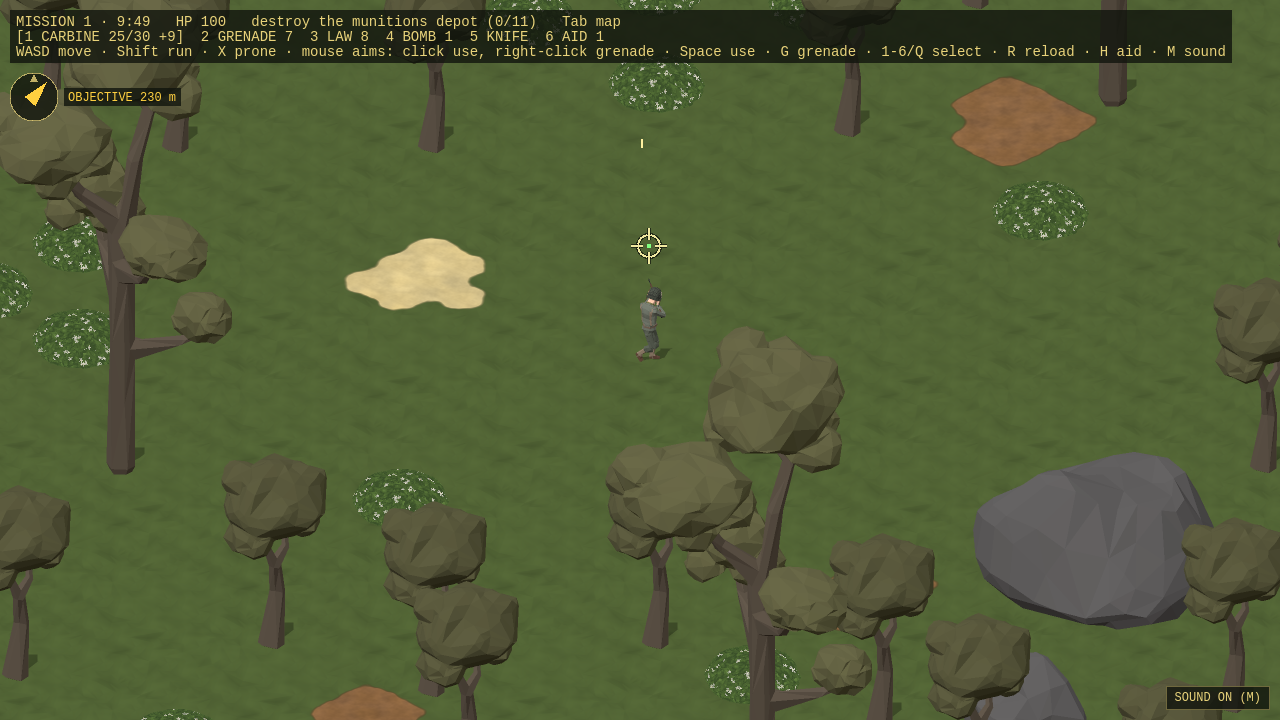
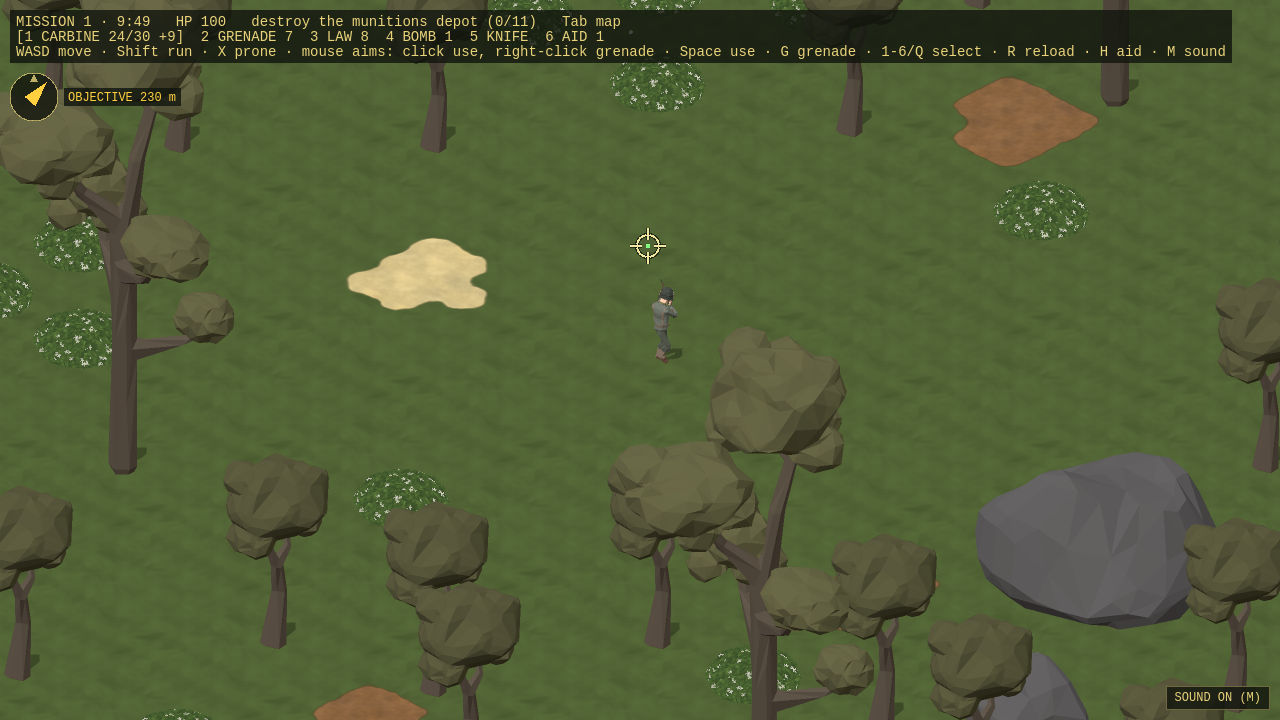
G16: route-check walks the generator's clearance route (FB-125 verified; own clearRoute only where none exists, FB-128); minefield guards keep 0.5 m clearance on missions 2/6/7/10/11 (three fields moved off the walked route) and route-check fails a walked route through mines; temperate tileset adds 

diff --git a/pages/gallery.html b/pages/gallery.html
@@ -118,6 +118,7 @@
       <tr><th>Run</th><td><kbd>Shift</kbd></td></tr>
       <tr><th>Prone / crawl</th><td><kbd>X</kbd></td></tr>
       <tr><th>Aim</th><td>The mouse: the commando faces the cursor and fires toward it (keyboard only: he fires the way he faces)</td></tr>
+      <tr><th>Strafe</th><td>With the mouse, walk or run any way while you aim: his legs face the way he walks, his upper body turns to the cursor and fires, throws and launches from there</td></tr>
       <tr><th>Shoot</th><td>Left click (hold to keep firing) or <kbd>Space</kbd>: uses the selected weapon</td></tr>
       <tr><th>Grenade</th><td>Right click (lands at the cursor, up to 8 m) or <kbd>G</kbd></td></tr>
       <tr><th>Crosshair</th><td>Red where the selected weapon doesn't reach; the centre dot is green while a grenade reaches. The grenade or LAW selected: a ring on the ground shows its range (LAW rockets fly toward the cursor, up to 30 m)</td></tr>
@@ -142,7 +143,10 @@
     <h2>Missions</h2>
     <p class="lead">A plane drops one commando and three supply pods behind enemy lines. Complete the objective and reach the
       extraction zone before the timer runs out. Merit earns promotions (PFC to COL) and medals for a roster of six commandos.
-      Each mission area is a long 128×256 m stretch: drop in the south, objective in the far north.</p>
+      Each mission area is a long 128×256 m stretch: drop in the south, objective in the far north.
+      The people you lead out (the officer, the prisoners, the hostages) draw enemy fire, but a round only wounds them:
+      5 hits on Easy, 4 on Normal, 3 on Hard, with 1.5 s after each hit in which more rounds do nothing, and pips over
+      them show the hits left. Your own fire still kills them outright.</p>
     <div class="grid">
       <figure><img src="shots/mission.png" alt=""><figcaption><b>1 · Destroy a Munitions Depot</b> · temperate</figcaption></figure>
       <figure><img src="shots/mission2.png" alt=""><figcaption><b>2 · Knock Out Enemy Radar Array</b> · desert</figcaption></figure>
@@ -183,6 +187,7 @@
     <h3>Mission 1 · temperate</h3>
     <div class="grid">
       <figure><img src="shots/mission-drop.png" alt=""><figcaption><b>The drop:</b> the commando and three supply pods land.</figcaption></figure>
+      <figure><img src="shots/g14-strafe.png" alt=""><figcaption><b>Strafing:</b> the legs walk east while the torso aims at the cursor to the north.</figcaption></figure>
       <figure><img src="shots/mission-end.png" alt=""><figcaption><b>Depot destroyed:</b> buildings collapse with scorch and debris.</figcaption></figure>
       <figure><img src="shots/mission-debrief.png" alt=""><figcaption><b>Debriefing:</b> merit, medals and promotion.</figcaption></figure>
     </div>

diff --git a/FEEDBACK.md b/FEEDBACK.md
@@ -1035,7 +1035,8 @@ Status: `open` → `triaged (TODO: …)` → `fixed (<commit>)` → `verified` (
 - Workaround: `scripts/route-check.mjs` still takes metres and hazards from `ssg map route`, but the in-game walk follows its own route between the same end cells with one cell of clearance round the collision layer and the object footprints (`clearRoute`, marked FB-125); it prints both lengths (`walk route (one cell of clearance, FB-125): 198 + 143 m` on mission 3 against the generator's 182 + 132 m). With it all twelve missions walk to the end (mission 3: 77 of 77 waypoints, no sidesteps; mission 4's sidesteps drop from 16 to 8). Mission 6 once stopped at 56 of 79: not the route but a guard's stray bullet killing the captured officer, which failed the mission; the walk now spares the escorted people too and reports a mission that ends early (`ended: "failed"`).
 - Suggested change: `clearance` on `map route` (CLI `--clearance <m>`, MCP `clearance`), counted from the collision layer and footprints (or the objects' collision polygons), and the same option on `avoidRoute`.
 - Update (G15, 2026-10-20): the walk no longer spares the escorted people: enemy rounds now only wound them (the game's own change, src/enemies/wounds.ts: 4 hits on Normal, 1.5 s grace after each). Mission 6 walked to the end four times with the officer captured at 1:24 and following (once he took a wound on the way, which used to end the walk).
-- Status: open
+- Re-test (G16, 2026-10-21): works where there's room. `ssg map route --clearance 0.5` (and `clearance` on `avoidRoute`) found a route for 15 of the 24 legs (missions 2, 6, 7, 10, 11 both legs; 1, 8, 9 objective→extraction; 5 drop→code book), and `scripts/route-check.mjs --walk` now runs those, not its own route: mission 2 76/76 waypoints with no sidesteps, 6 87/87 (officer captured at 1:27, one wound), 7 100/100, 10 88/88, 11 68/68, all with no sidesteps. With 0.5 m on the minefield guards of 2, 6, 7, 10 and 11 (next to the plain route, so both the scored and the walked route are guarded) the guard refused three minefields that the 0.5 m route ran through (mission 2's g9_mines2: "would be on the route Radar array→extraction (0.5 m clearance) at (56, 63)"; mission 10's g9_mines2; mission 11's g9_mines1), and they were moved off it; route-check now also fails a walked route that crosses a minefield (mission 3's own route used to, by 6 cells). The other 9 legs find no route at any clearance, because trees' and bushes' footprints count (FB-128); for those the walk keeps its own `clearRoute`, now marked FB-128. All twelve walk to the end (mission 1 once timed out at 70/76 in the full run and walked 76/76 alone).
+- Status: verified (the leftover gap is FB-128)
 
 ## FB-127 · `ssg map check-route` makes a new map revision
 - Severity: polish        Milestone: wave 15 (G15)
@@ -1054,3 +1055,12 @@ Status: `open` → `triaged (TODO: …)` → `fixed (<commit>)` → `verified` (
 - Workaround: `ranger_split` declared next to `ranger` (same asset, `with`, clips; the LAW as standing `shoulder_fire` on the split one); `scripts/build-assets.mjs` enters its halves as `ranger_split_legs` / `ranger_split_torso` in the manifest; `src/scenes/Field.ts` hides the whole-body sprite while the split pair is drawn.
 - Suggested change: `split.whole: true` (MCP and CLI `--split-whole`) to also write the whole-body sheet from the same job; or let one sprite name a split companion so `sprite apply` keeps their model, items and shared clips in step.
 - Status: triaged (TODO: Inbox FB-126)
+
+## FB-128 · `map route --clearance` counts from the footprints of trees and bushes, so any clearance shuts a thicket
+- Severity: workaround        Milestone: wave 16 (G16)
+- Tried: FB-125's `ssg map route <mission> --from … --to … --cells --clearance 0.5` for both legs of all twelve missions, so `scripts/route-check.mjs --walk` could follow the generator's route instead of its own `clearRoute`.
+- Wanted: a route that keeps 0.5 m from what the Ranger collides with: the collision layer, building and wire footprints, and for trees, palms, bushes and rocks their collision polygon (a tree's is its trunk, `collision.source: "base"`, FB-017), not their canopy-sized footprint.
+- Got: 9 of 24 legs find no route at any clearance (0.05, 0.2, 0.25, 0.3 or 0.5 m: `with 0.5 m clearance: no walkable route: Munitions depot is cut off from drop by blocked cells or object footprints (and the clearance round them); without the clearance there is a route (237.92 m), through gaps narrower than the clearance`): mission 1 drop→depot, mission 3 both legs, mission 4 both legs, mission 5 code book→extraction, mission 8 drop→camp exit, mission 9 drop→Hangar, mission 12 both legs. Bisecting the plain route shows where it closes: on mission 1 at (95, 222), 5 cells out of the drop, between `tree_small` and `bush` objects whose footprints are 3×3 (`tree` 6×6, `rock` 3×3) and stand one cell apart. The plain route (no clearance) already counts those footprints as solid, and the walk shows the Ranger only bumps into trunks there; "any clearance closes one-cell gaps", so a wood whose footprints stand a cell apart is a wall. `--ignore-objects --clearance 0.5` does find a route (222.75 m on mission 1) but walks through wire, sandbags and bunkers.
+- Workaround: `scripts/route-check.mjs` walks the generator's 0.5 m route for each leg that has one and falls back to its own `clearRoute` (trunk cells, one cell of band, minefields blocked) for the others, marked FB-128; it prints which (`walk route: 237 m (own clearRoute, FB-128) + 101 m (generator, clearance 0.5 m)`). The minefield guards carry `clearance: 0.5` (alongside the plain route) only on missions 2, 6, 7, 10 and 11, where both legs have a clearance route; on the others a clearance guard would be an error ("an error when there is no route").
+- Suggested change: count the clearance from an object's collision polygon where it has one (or a `--clearance-from polygons|footprints` choice), so a tree adds its trunk plus the clearance, not its 3×3 or 6×6 footprint; or let `clearance` not apply to the footprints of scattered vegetation (the classes that collide by `base`).
+- Status: open

diff --git a/README.md b/README.md
@@ -19,6 +19,7 @@ The local folder and the generator project still use the earlier name (`airborne
 | Run | `Shift` |
 | Prone / crawl | `X` |
 | Aim | the mouse: the commando faces the cursor and fires toward it (keyboard only: he fires the way he faces) |
+| Strafe | with the mouse, walk or run any way while you aim: his legs face the way he walks, his upper body turns to the cursor and fires, throws and launches from there |
 | Shoot / use the selected weapon | left click (hold to keep firing) or `Space` |
 | Grenade | right click (lands at the cursor, up to 8 m) or `G` |
 | Sound on/off | `M` |
@@ -38,7 +39,7 @@ retire. `?touch=1` forces the touch controls on a desktop, `?touch=0` turns them
 A plane drops one commando and three supply pods behind enemy lines. Complete the objective and reach the extraction zone
 before the timer runs out, then call the plane and hold out until it picks you up. Machine-gun nests, hidden
 minefields, trenches, tanks (only a LAW or a time bomb stops them) and alerts that spread into an alarm stand in the
-way, on every mission. Escorted people (the officer, the prisoners, the hostages) draw enemy fire too. Play Easy, Normal or Hard, single missions or the campaign (the missions in order with one commando). Merit earns promotions (PFC to COL) and medals for a persistent roster of six commandos.
+way, on every mission. Escorted people (the officer, the prisoners, the hostages) draw enemy fire too, but an enemy round only wounds them: they take 5 hits on Easy, 4 on Normal and 3 on Hard, with 1.5 s after each hit in which more rounds do nothing (they flash red and blink), and once hurt a row of pips over them shows the hits left. Your own bullets and blasts still kill them outright. Play Easy, Normal or Hard, single missions or the campaign (the missions in order with one commando). Merit earns promotions (PFC to COL) and medals for a persistent roster of six commandos.
 Each mission area is 128×256 m (drop in the south, objective in the far north), and before the drop you pack the
 supply pods: magazines, grenades, first aid, LAW rockets and time bombs, up to 21 items and a weight limit.
 Missions 5–8 have their own objectives: walk up to the code book to take it; get close to the enemy officer and he
@@ -69,6 +70,8 @@ the prisoners out (they follow you; the debriefing counts the rescued).
 | ![](docs/screenshots/g9-nest.png) | ![](docs/screenshots/g9-tank.png) | ![](docs/screenshots/g9-plane.png) |
 | **Mines spotted (prone)** | **In a trench** | **Difficulty and campaign** |
 | ![](docs/screenshots/g9-mines.png) | ![](docs/screenshots/g9-trench.png) | ![](docs/screenshots/g9-missions.png) |
+| **Strafing: legs walk east, torso aims north** | **Mouse aim and the grenade's range** | |
+| ![](docs/screenshots/g14-strafe.png) | ![](docs/screenshots/g12-mouse-aim.png) | |
 
 ## How it's made
 
